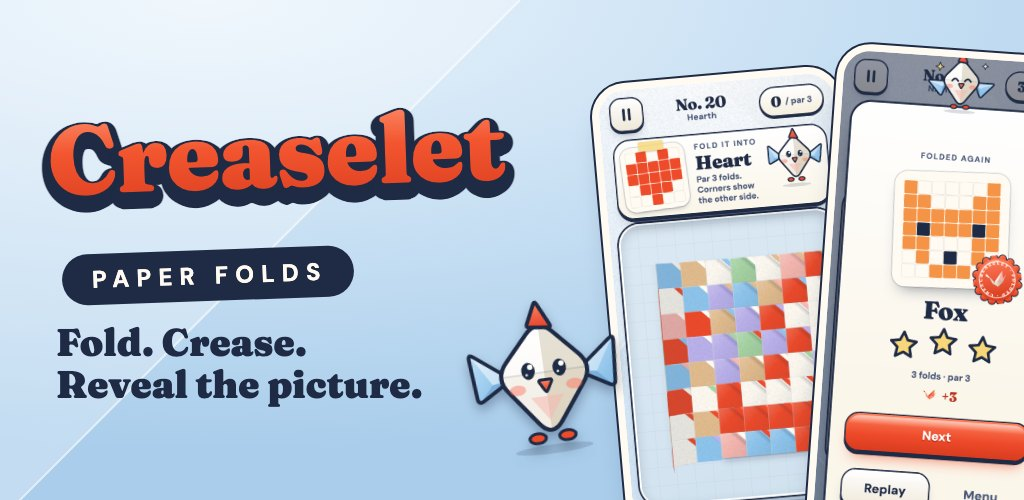
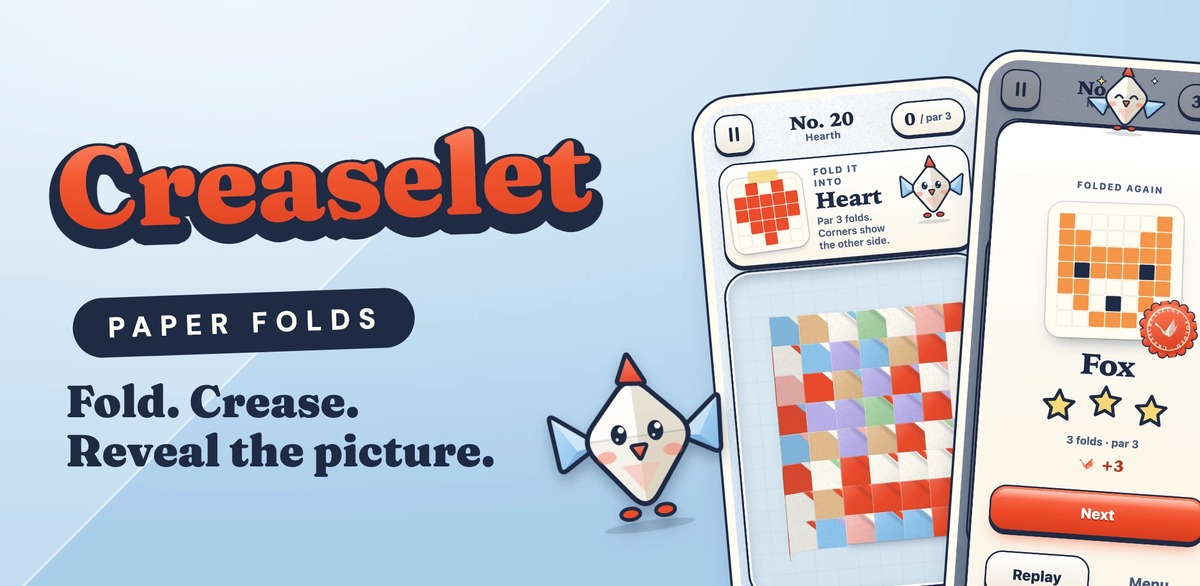
Creaselet page: re-rendered images at 1200px wide, clean Journey capture, WebP

diff --git a/creaselet/index.html b/creaselet/index.html
@@ -24,8 +24,8 @@
     <div class="badges"><span class="badge"><small>Coming soon to</small>iPhone &amp; iPad</span><span class="badge"><small>Coming soon to</small>Android</span></div>
   </div>
   <div class="stage">
-    <div class="phone p1"><img src="img/home.jpg" alt="Creaselet home screen with the paper bird Oru" width="600" height="1322"></div>
-    <div class="phone p2"><img src="img/fold.jpg" alt="A sheet of paper being folded over a crease" width="600" height="1322"></div>
+    <div class="phone p1"><img src="img/home.webp" alt="Creaselet home screen with the paper bird Oru" width="1200" height="2607"></div>
+    <div class="phone p2"><img src="img/fold.webp" alt="A sheet of paper being folded over a crease" width="1200" height="2607"></div>
     <div class="oru" aria-hidden="true"><svg class="oru-svg" viewBox="0 0 200 206" aria-hidden="true">
 <defs>
 <linearGradient id="o1p" x1="0" y1="0" x2="0" y2="1"><stop offset="0" stop-color="#FFFFFF"/><stop offset="1" stop-color="#F1EBDD"/></linearGradient>
@@ -65,9 +65,9 @@
   <h2>How it plays</h2>
   <p class="sub">The very first sheet teaches itself: a dashed crease, a drifting finger, one gentle drag.</p>
   <div class="steps">
-    <div class="step"><b>1</b><div class="phone"><img src="img/level.jpg" alt="A patchwork sheet with the target picture above it" width="600" height="1322" loading="lazy"></div><h3>Read the picture</h3><p>The card shows what the folded stack must become.</p></div>
-    <div class="step"><b>2</b><div class="phone"><img src="img/fold.jpg" alt="Paper bending over a crease in mid-fold" width="600" height="1322" loading="lazy"></div><h3>Drag across a crease</h3><p>Fold over the front or tuck behind. The paper bends, creases and settles.</p></div>
-    <div class="step"><b>3</b><div class="phone"><img src="img/reveal.jpg" alt="A finished picture with three stars and a seal" width="600" height="1322" loading="lazy"></div><h3>Stamp the seal</h3><p>Match the picture, earn up to three stars and add it to your album.</p></div>
+    <div class="step"><b>1</b><div class="phone"><img src="img/level.webp" alt="A patchwork sheet with the target picture above it" width="1200" height="2607" loading="lazy"></div><h3>Read the picture</h3><p>The card shows what the folded stack must become.</p></div>
+    <div class="step"><b>2</b><div class="phone"><img src="img/fold.webp" alt="Paper bending over a crease in mid-fold" width="1200" height="2607" loading="lazy"></div><h3>Drag across a crease</h3><p>Fold over the front or tuck behind. The paper bends, creases and settles.</p></div>
+    <div class="step"><b>3</b><div class="phone"><img src="img/reveal.webp" alt="A finished picture with three stars and a seal" width="1200" height="2607" loading="lazy"></div><h3>Stamp the seal</h3><p>Match the picture, earn up to three stars and add it to your album.</p></div>
   </div>
 </section>
 <section>
@@ -83,7 +83,7 @@
 <section>
   <h2>Pick a chapter, or fold a daily</h2>
   <p class="sub">Winding chapters, a calendar of daily sheets and a friendly bird in every corner.</p>
-  <div class="phones"><div class="phone"><img src="img/journey.jpg" alt="The journey screen with chapters of sheets" width="600" height="1322" loading="lazy"></div><div class="phone"><img src="img/daily.jpg" alt="The daily fold screen with a month calendar" width="600" height="1322" loading="lazy"></div><div class="phone"><img src="img/level.jpg" alt="A sheet ready to fold" width="600" height="1322" loading="lazy"></div></div>
+  <div class="phones"><div class="phone"><img src="img/journey.webp" alt="The journey screen with chapters of sheets" width="1200" height="2607" loading="lazy"></div><div class="phone"><img src="img/daily.webp" alt="The daily fold screen with a month calendar" width="1200" height="2607" loading="lazy"></div><div class="phone"><img src="img/level.webp" alt="A sheet ready to fold" width="1200" height="2607" loading="lazy"></div></div>
 </section>
 <section>
   <div class="meet">
